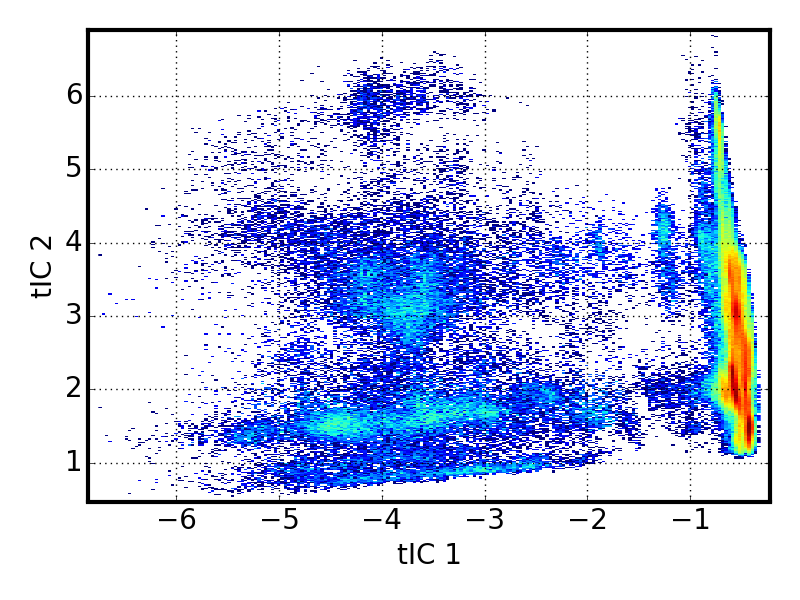
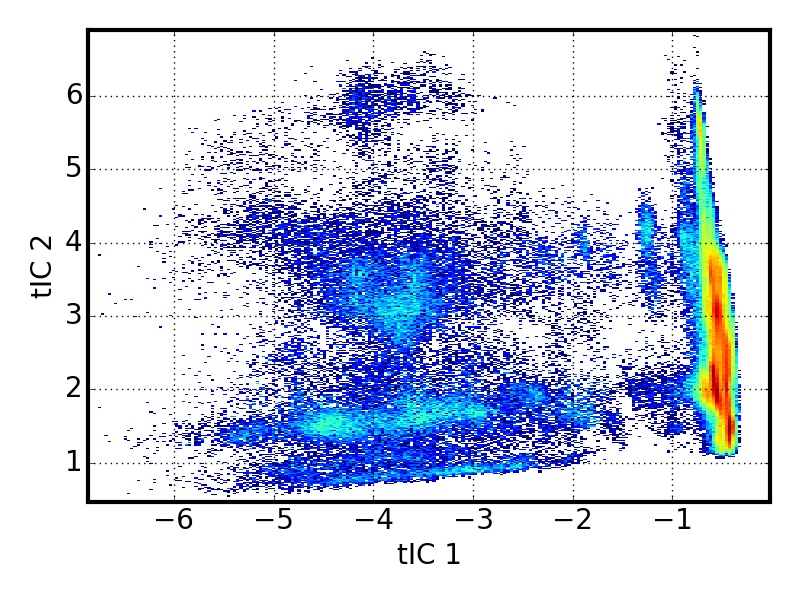
all

diff --git a/hDAT_Na_SREP/tica_files/plot_tica_landscape.py b/hDAT_Na_SREP/tica_files/plot_tica_landscape.py
@@ -23,7 +23,7 @@ for i in range(len(data1)):
 # plot tICA landscape
 plt.hist2d(ev0,ev1,bins=[200,400],norm=LogNorm())
 plt.grid(True,lw=1)
-plt.xlim([np.min(ev0)-0.1,np.max(ev0)+0.1])
+plt.xlim([np.min(ev0)-0.1,np.max(ev0)+0.3])
 plt.xlabel('tIC 1')
 plt.ylabel('tIC 2')
 plt.savefig('img_tica_landscape',dpi=100,transparet=True)
